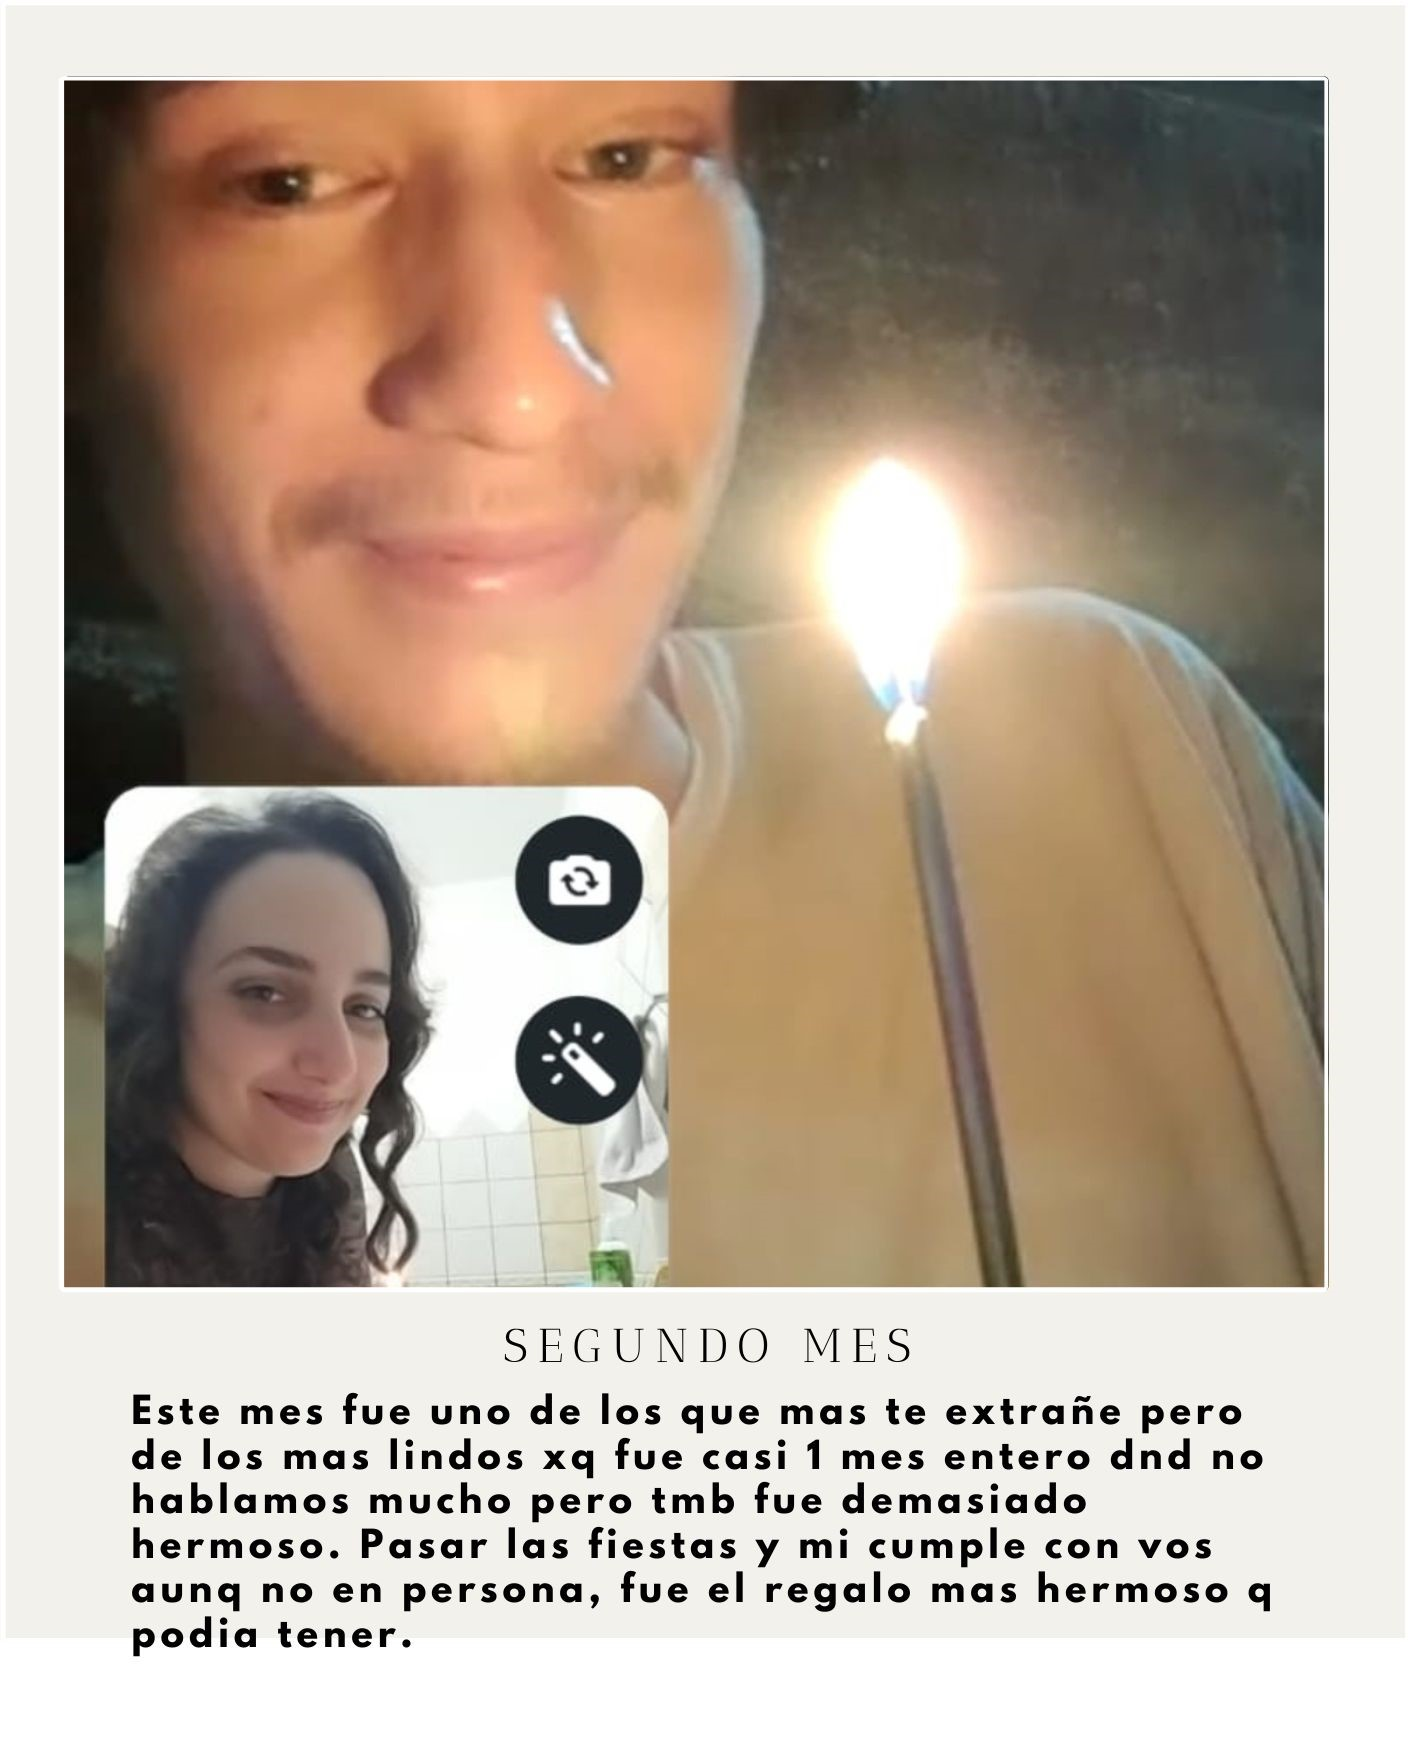
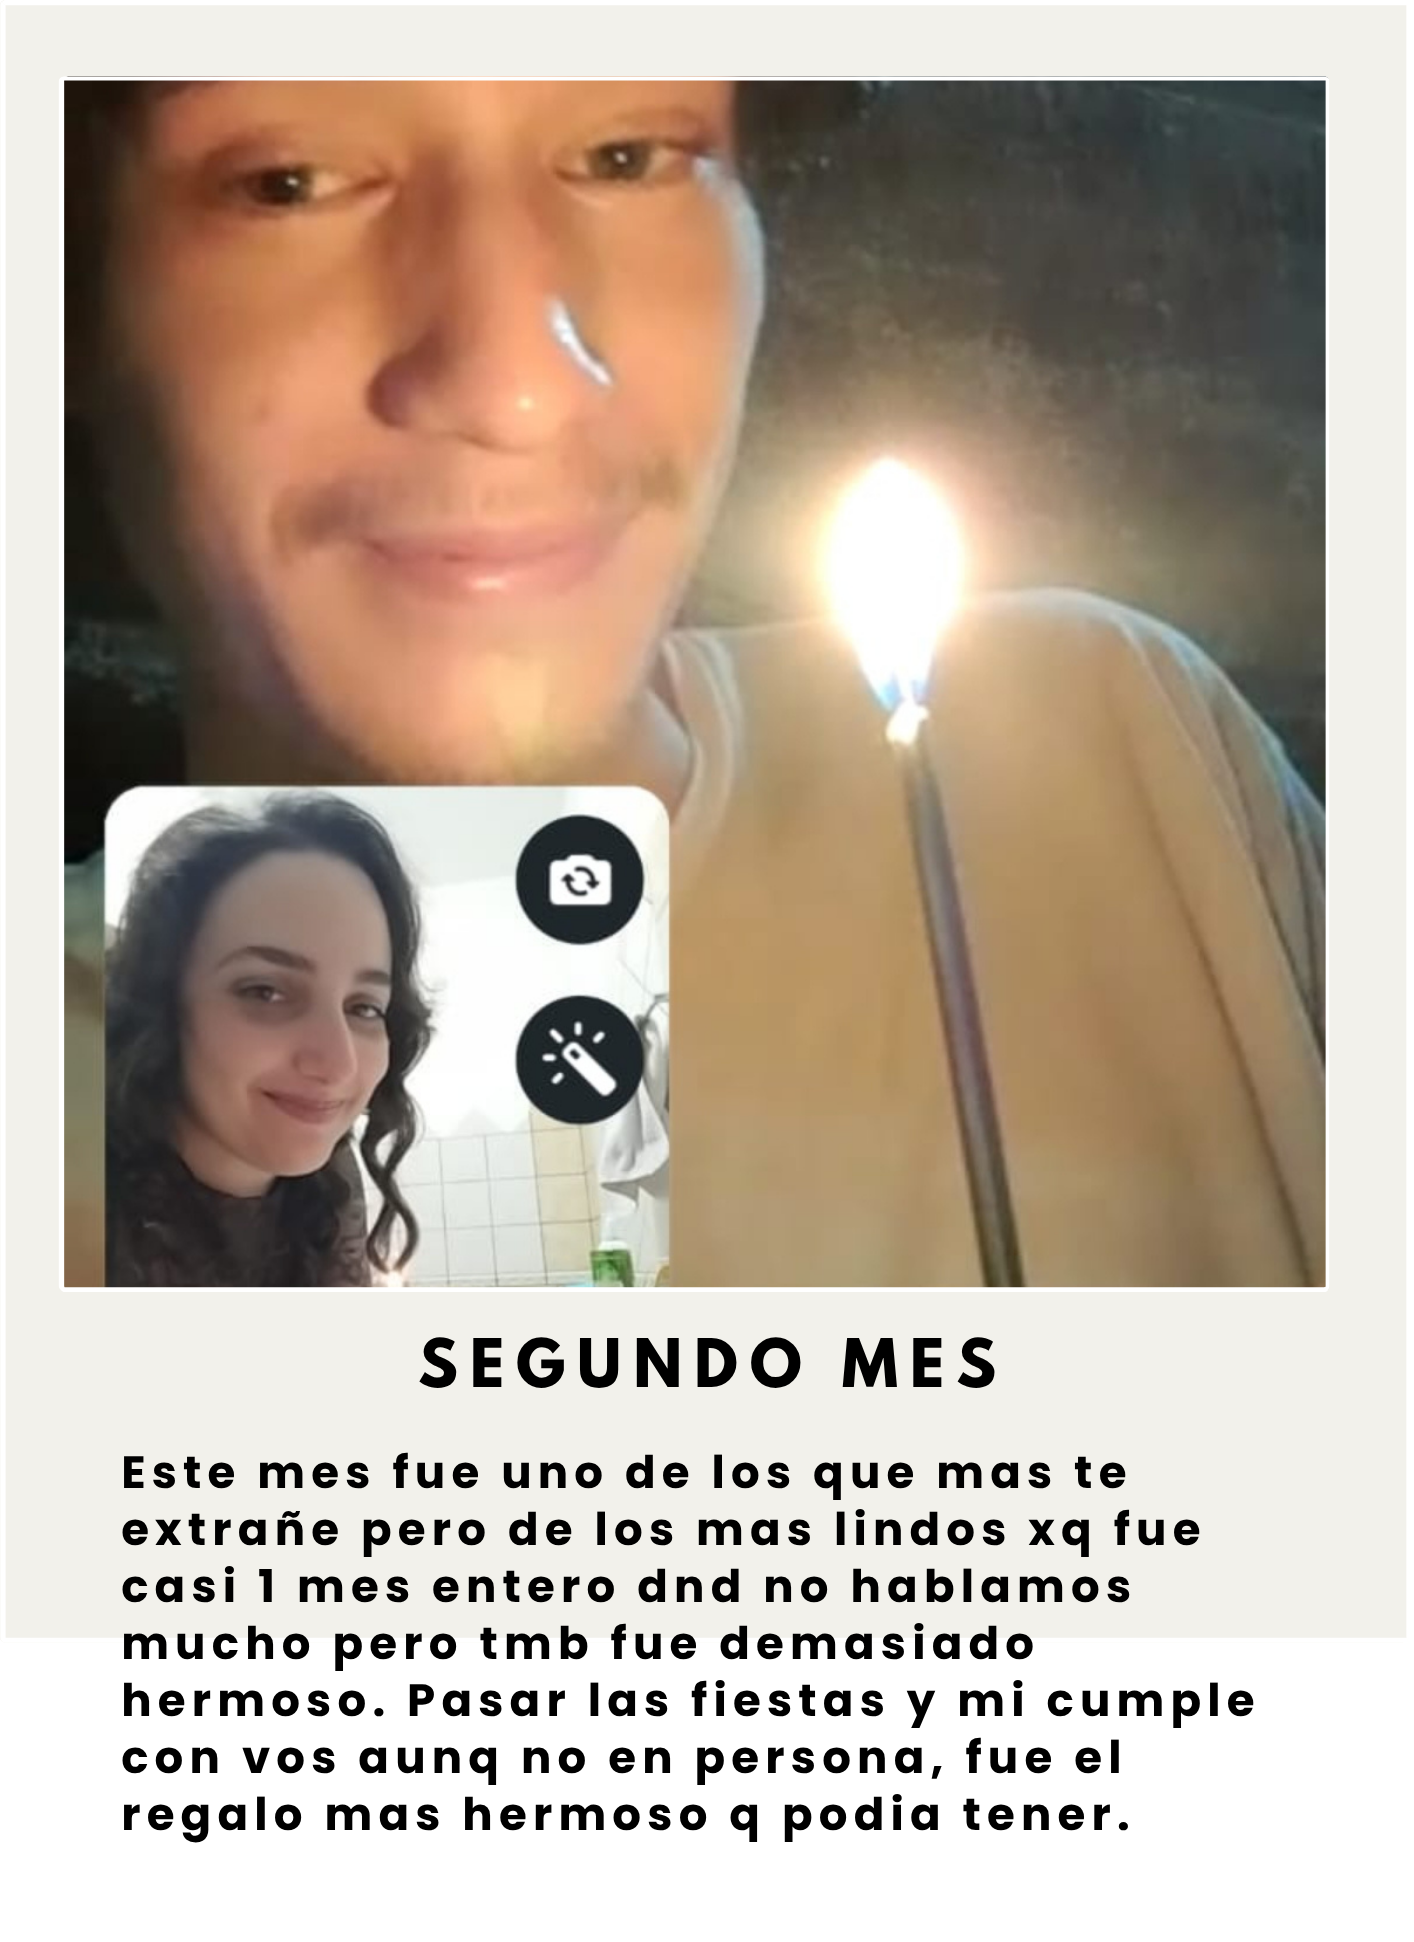
Add files via upload

diff --git a/style.css b/style.css
@@ -705,5 +705,9 @@ z-index: 1000;
   #sig1, #sig2, #sig3, #sig4, #sig5, #sig6{ 
   font-size: 32px;
   }
+  .foto{
+    zoom:0.7;
+    margin-top: 100px;
+  }
   
 }
